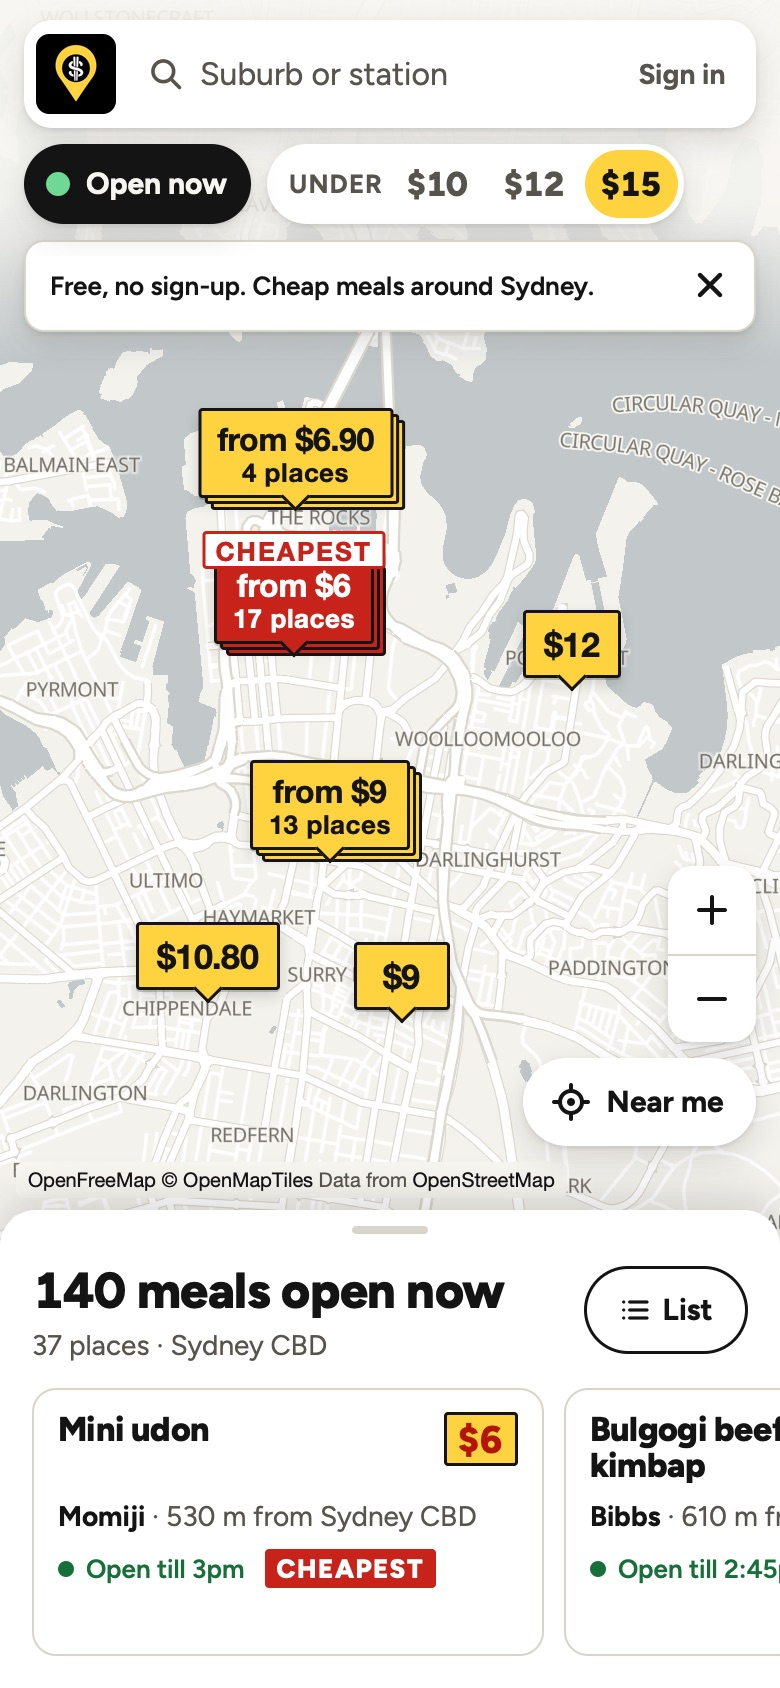
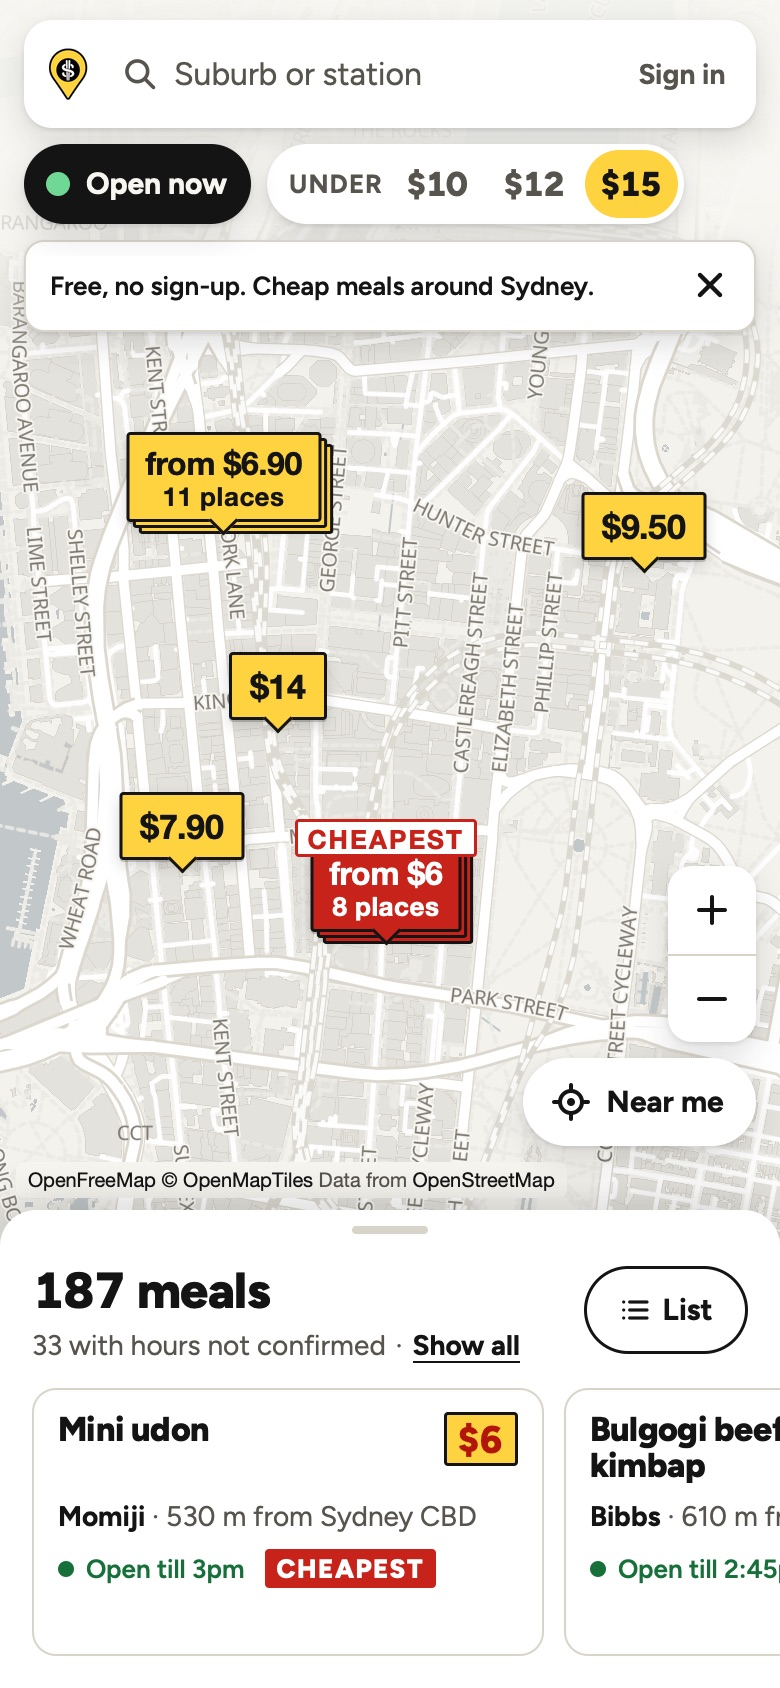
BrokeMap landing: the pin alone as the mark (outlined on light, plain on dark), og.png and phone.jpg redrawn with it
From the app branch claude/polish-logo-contact-hours (docs/DESIGN.md Logo there). The favicon
keeps the app icon (pin on black). Not deployed: the coordinator publishes it with the
launch-day deploy.

diff --git a/brokemap/landing.css b/brokemap/landing.css
@@ -32,8 +32,10 @@ a:focus-visible { outline: 3px solid var(--focus); outline-offset: 2px; }
 .wrap { max-width: 1080px; margin: 0 auto; padding: 32px 16px 48px; display: grid; gap: 48px; }
 .hero { display: grid; gap: 28px; align-items: center; }
 .copy { display: grid; gap: 16px; justify-items: start; }
-.brand { display: flex; align-items: center; gap: 10px; margin: 0; font-size: 26px; line-height: 1; }
-.brand img { border-radius: 7px; display: block; }
+.brand { display: flex; align-items: center; gap: 7px; margin: 0; font-size: 26px; line-height: 1; }
+/* The app's mark (docs/DESIGN.md Logo in the app repo): the pin alone, outlined on light pages,
+   plain on dark ones; 36px beside 26px type, the app page bar's proportions. */
+.brand img { display: block; width: 28px; height: 36px; }
 h1 { margin: 0; font-size: clamp(2.25rem, 8.5vw, 3.4rem); line-height: 1.05; text-wrap: balance; }
 .ticket { display: inline-block; background: var(--ticket); color: var(--ticket-price); border: 2px solid #141414; border-radius: 2px; padding: 0 0.12em; font-variant-numeric: tabular-nums; line-height: 1; }
 .lede { margin: 0; font-size: 19px; max-width: 34ch; }

diff --git a/brokemap/index.html b/brokemap/index.html
@@ -25,7 +25,7 @@
 <main class="wrap">
   <section class="hero" aria-labelledby="title">
     <div class="copy">
-      <p class="brand"><img src="logo-120.png" width="44" height="44" alt=""><span class="heavy">BrokeMap</span></p>
+      <p class="brand"><picture><source media="(prefers-color-scheme: dark)" srcset="pin-96.png"><img src="pin-outline-96.png" width="28" height="36" alt=""></picture><span class="heavy">BrokeMap</span></p>
       <h1 id="title" class="heavy">What can I eat near me for <span class="ticket">$15</span> right now?</h1>
       <p class="lede">A free map of cheap meals around Sydney. The price you actually pay, the catch, and whether it's open now.</p>
       <a class="open heavy" href="https://brokemap.meridianlabssoftware.com/">Open BrokeMap</a>
